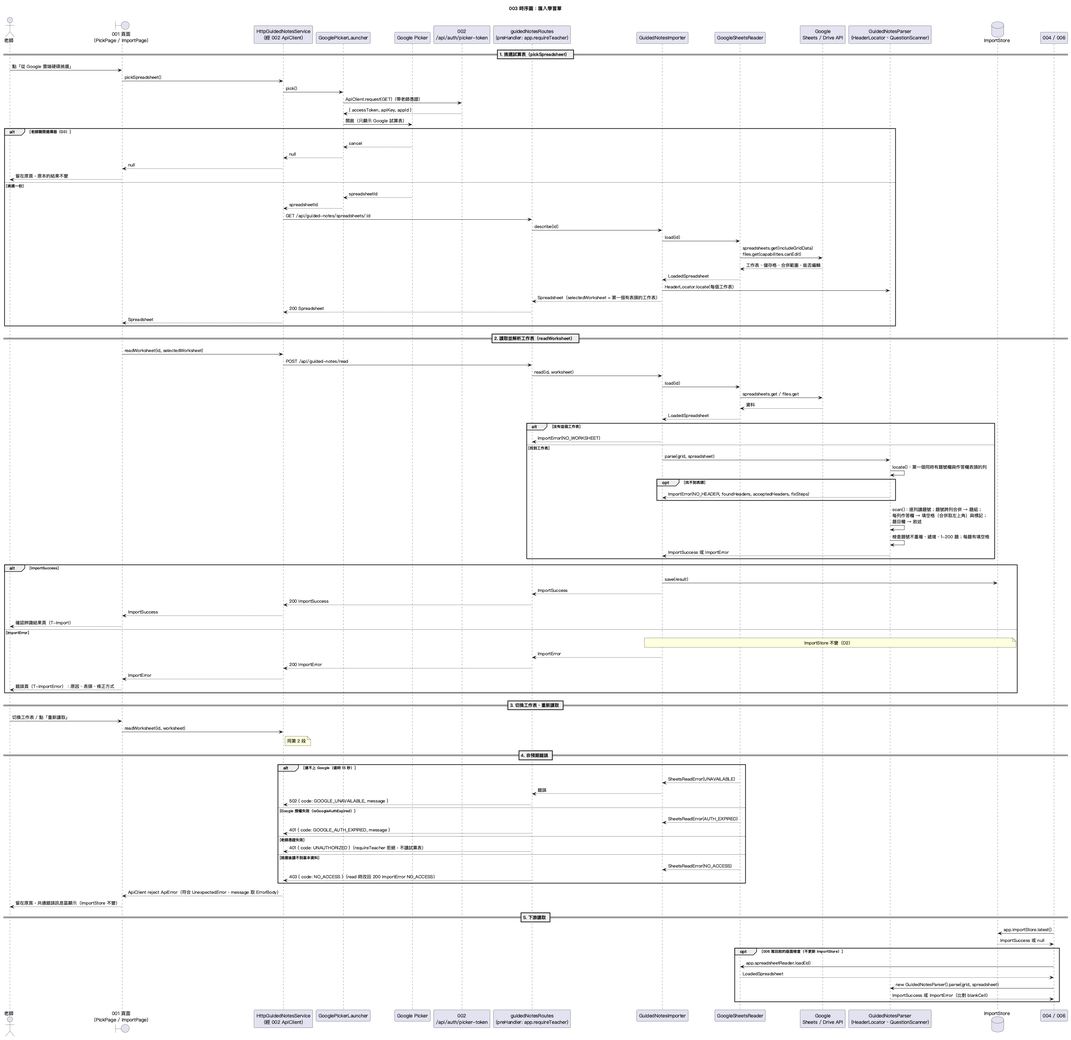
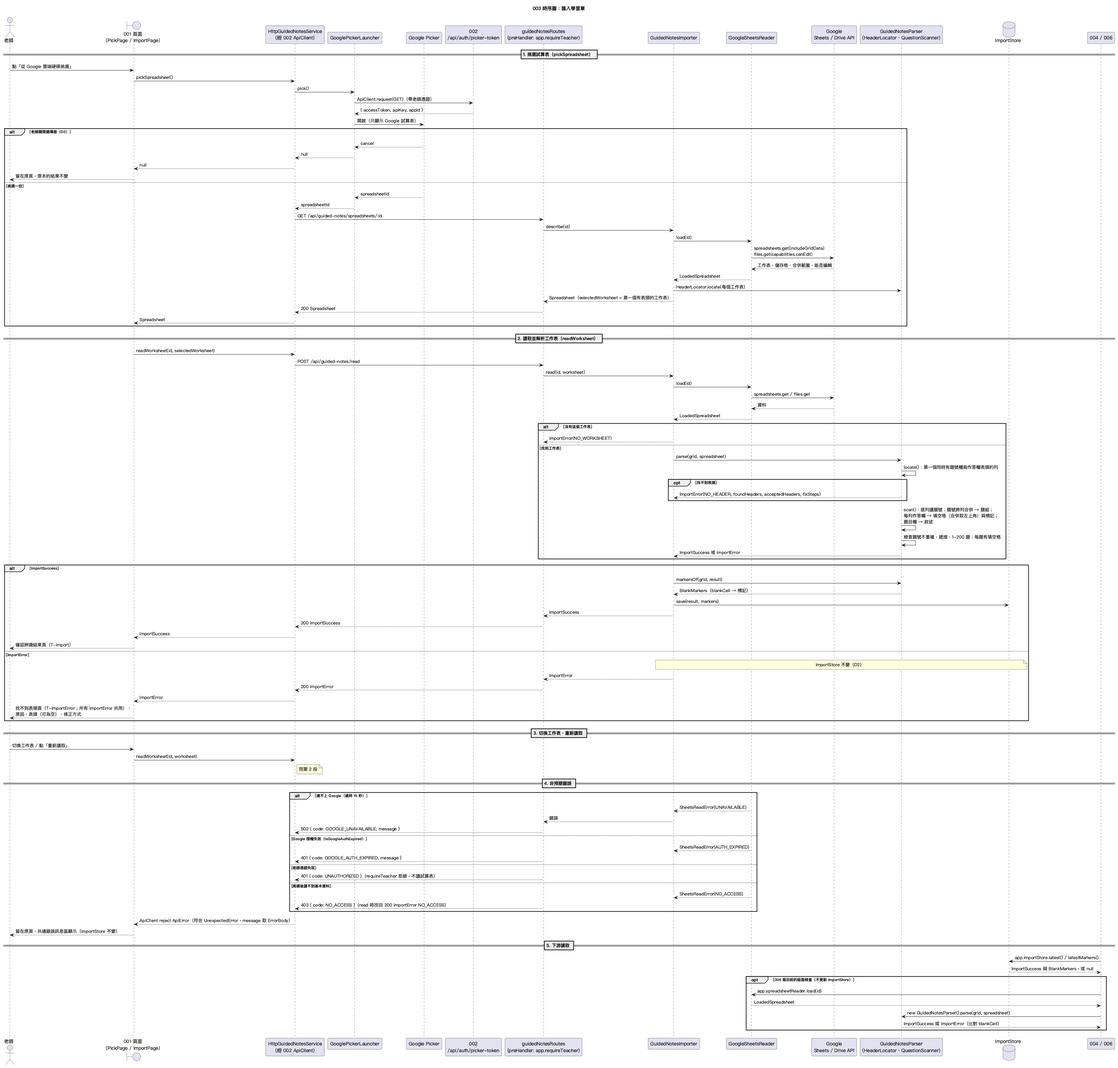
spec(003): 依 spec 修改同步設計、任務與圖表
spec 配合 001 最終版修改後，plan、research、data-model、contracts、quickstart、tasks 與三張圖也要跟著改，否則實作會照舊的介面做。重跑 analyze 沒有 CRITICAL、HIGH、MEDIUM。

diff --git a/specs/003-guided-notes-import/tasks.md b/specs/003-guided-notes-import/tasks.md
@@ -22,7 +22,7 @@ description: "Task list for 003 匯入學習單"
 
 ## Phase 1: Setup
 
-- [ ] T001 確認 `shared/src/entities.ts` 的 `SubQuestion` 已有 `marker: string`（spec「需請 001 修改」#1）；沒有時停下來，請 001 先修改 spec、類別圖與實體，不要自己改 001 的檔案
+- [ ] T001 確認 `shared/src/entities.ts` 的 `Spreadsheet`、`Question`、`SubQuestion`（只有 `index`、`blankCell`）、`ImportSuccess`、`ImportError` 與 `shared/src/guards.ts` 的 `isImportError` 和 001 data-model 一致；003 不修改這兩個檔案（小題標記只存在伺服器，REQ-IMP-09）
 - [ ] T002 [P] 在 `server/package.json` 加入 `@googleapis/sheets`、`@googleapis/drive`，執行 `npm install`
 
 ---
@@ -32,12 +32,12 @@ description: "Task list for 003 匯入學習單"
 **Purpose**: 所有 Story 共用的資料結構；完成前不開始任何 Story
 
 - [ ] T003 [P] 建立 `gn/SpreadsheetReader.ts`：`SpreadsheetReader` 介面（`load(spreadsheetId): Promise<LoadedSpreadsheet>`）、`LoadedSpreadsheet`（`id`、`title`、`editable`、`sheets: SheetGrid[]`）、`SheetsReadError`（`kind: 'NO_ACCESS' | 'UNAVAILABLE' | 'AUTH_EXPIRED'`）
-- [ ] T004 [P] 建立 `gn/SheetGrid.ts`：`SheetGrid`（`sheetId`、`name`、`rowCount`、`colCount`、`text(row, col)` 用 `formattedValue`、`number(row, col)` 用 `effectiveValue.numberValue`、`mergeAt(row, col): CellRange | null`）與 `CellRange`；以 `SheetGrid.fromApi(sheet)` 由 `spreadsheets.get` 的一個 `sheets[]` 建立，GridRange（0 起算、結尾不含）轉成「從 1 起算、含結尾」；另提供 `toA1(row, col)`
-- [ ] T005 [P] 建立 `gn/ImportStore.ts`：`save(result)` 以 `structuredClone` 存入、`latest(): Readonly<ImportSuccess> | null`（contracts/import-store.md）
+- [ ] T004 [P] 建立 `gn/SheetGrid.ts`：`SheetGrid`（`sheetId`、`name`、`rowCount`、`colCount`、`text(row, col)` 用 `formattedValue`、`number(row, col)` 用 `effectiveValue.numberValue`、`mergeAt(row, col): CellRange | null`）與 `CellRange`；以 `SheetGrid.fromApi(sheet)` 由 `spreadsheets.get` 的一個 `sheets[]` 建立，GridRange（0 起算、結尾不含）轉成「從 1 起算、含結尾」；另提供 `toA1(row, col)` 與 `textA1(a1)`
+- [ ] T005 [P] 建立 `gn/ImportStore.ts`：`BlankMarkers` 型別、`save(result, markers)` 以 `structuredClone` 一起存入、`latest(): Readonly<ImportSuccess> | null`、`latestMarkers(): BlankMarkers | null`（contracts/import-store.md）
 - [ ] T006 [P] 建立 `gn/importErrors.ts`：`noHeader`、`noQuestions`、`invalidNumbering`、`tooManyQuestions`、`noBlank`、`noAccess`、`noWorksheet`，`reason` 與 `fixSteps` 依 contracts/guided-notes-http.md 的範例；只有 `noHeader` 的 `foundHeaders`、`acceptedHeaders` 有值，`acceptedHeaders` 為 `["題號欄：題號、編號、題次", "作答欄：作答、答案、回答", "題目欄（可以沒有）：題目、問題、題幹"]`
 - [ ] T007 [P] 建立 `gnt/helpers/gridBuilder.ts`：以二維字串陣列（數字以 number 表示）與 A1 合併範圍（例如 `"B5:B6"`）產生 `spreadsheets.get` 回應格式的 sheet 物件與 `SheetGrid`
 - [ ] T008 [P] 撰寫 `gnt/SheetGrid.test.ts`：合併範圍轉換、`number()` 讀數字與文字題號的差別、`toA1`
-- [ ] T009 [P] 撰寫 `gnt/ImportStore.test.ts`：初始 `latest()` 為 `null`；`save` 後取得相同內容；再次 `save` 取代；修改存入前的物件不影響 `latest()`
+- [ ] T009 [P] 撰寫 `gnt/ImportStore.test.ts`：初始 `latest()`、`latestMarkers()` 都為 `null`；`save` 後兩者取得相同內容；再次 `save` 兩者一起取代；修改存入前的物件不影響 `latest()`、`latestMarkers()`
 
 **Checkpoint**: 基礎型別與測試輔助完成
 
@@ -56,7 +56,7 @@ description: "Task list for 003 匯入學習單"
 - [ ] T012 [P] [US1] 撰寫 `gnt/QuestionScanner.test.ts`（單題）：題號接受數字 1、1.0、文字「1」與全形「１」；0、負數、1.5、文字列略過；作答欄 G5:H5 合併時填空格為 `G5`；單題只有 1 個小題、`index` 為 1；有題目欄時 `text` 為該列文字、沒有題目欄時沒有 `text`（AC-04）
 - [ ] T013 [US1] 撰寫 `gnt/GuidedNotesParser.test.ts`（成功）：單題範本 → 6 題、填空格 G5、G7…G15、`headerRow` 4、`headerColumns` `["B","C","G"]`（AC-01、REQ-IMP-16）；沒有題目欄時 `headerColumns` 只有兩欄；3 份變形全部正確（AC-03、SC-002）；題號 1、2、4 → 3 題（AC-09）；`questions` 依題號遞增，依 T010
 - [ ] T014 [P] [US1] 撰寫 `gnt/GoogleSheetsReader.test.ts`（`vi.mock` 取代 `@googleapis/sheets`、`@googleapis/drive`）：`spreadsheets.get` 帶 `includeGridData=true` 與 research R1 的 `fields`；`files.get` 只取 `capabilities/canEdit`；工作表依 `index` 排序；`authorizedClient()` 的結果傳給兩個 API
-- [ ] T015 [P] [US1] 撰寫 `gnt/GuidedNotesImporter.test.ts`（成功）：`describe` 的 `selectedWorksheet` 是第一個有表頭的工作表、都沒有時為第一個（AC-05）；`describe` 不改變 `ImportStore`；`read` 成功時 `ImportStore.latest()` 等於回傳值（AC-02）；讀另一個工作表時取代（AC-06）；`canEdit=false` 時 `editable` 為 false、仍成功（AC-07）
+- [ ] T015 [P] [US1] 撰寫 `gnt/GuidedNotesImporter.test.ts`（成功）：`describe` 的 `selectedWorksheet` 是第一個有表頭的工作表、都沒有時為第一個（AC-05）；`describe` 不改變 `ImportStore`；`read` 成功時 `ImportStore.latest()` 等於回傳值、`latestMarkers()` 為同一次的標記（AC-02、AC-12）；讀另一個工作表時取代（AC-06）；`canEdit=false` 時 `editable` 為 false、仍成功（AC-07）
 - [ ] T016 [P] [US1] 撰寫 `gnt/guidedNotesRoutes.test.ts`（成功）：以 002 的 `buildApp` + Fastify `inject()`、`deps.spreadsheetReader` 注入假 `SpreadsheetReader`、002 的測試用老師憑證，`GET /api/guided-notes/spreadsheets/:id` 回 200 `Spreadsheet`、`POST /api/guided-notes/read` 回 200 `ImportSuccess`；`spreadsheetId` 不符 `^[A-Za-z0-9_-]{10,200}$`、`worksheet` 空字串或超過 100 字、多餘欄位 → `400 BAD_REQUEST`（`ErrorBody` `{ code, message }`）
 - [ ] T017 [P] [US1] 撰寫 `frontend/tests/unit/HttpGuidedNotesService.test.ts`（成功）：假的 `GooglePickerLauncher` 回傳 id 時呼叫 `GET /api/guided-notes/spreadsheets/:id` 並回傳 `Spreadsheet`；`readWorksheet` 200 時把內容原樣回傳（`ImportSuccess`）；所有請求都經過假的 `ApiClient.request(method, path, body?)`，路徑與 body 符合 contracts/guided-notes-http.md
 - [ ] T018 [US1] 在 `gnt/GoogleSheetsReader.test.ts` 確認 `load()` 只呼叫 `spreadsheets.get` 與 `files.get`，沒有呼叫任何寫入方法（`batchUpdate`、`values.update` 等）；在 `gnt/GuidedNotesImporter.test.ts` 確認 `describe`、`read` 對假 `SpreadsheetReader` 只呼叫 `load()`（AC-10、REQ-IMP-17）
@@ -67,7 +67,7 @@ description: "Task list for 003 匯入學習單"
 - [ ] T020 [US1] 實作 `gn/QuestionScanner.ts` 單題路徑：逐列讀題號、跳過合併範圍的非第一列、填空格取合併左上角並轉 A1、題目欄文字（research R4），回傳 `ScannedQuestion[]`
 - [ ] T021 [US1] 實作 `gn/GuidedNotesParser.ts`：`parse(grid, spreadsheet)` 組出 `ImportSuccess`（`headerRow`、依「題號欄、題目欄（有才列）、作答欄」順序的 `headerColumns`、`questions`），依 T019、T020
 - [ ] T022 [P] [US1] 實作 `gn/GoogleSheetsReader.ts`：以 `GoogleClientProvider.authorizedClient()` 同時送出 `spreadsheets.get` 與 `files.get`，轉成 `LoadedSpreadsheet`（research R1）
-- [ ] T023 [US1] 實作 `gn/GuidedNotesImporter.ts`：`describe`（預設工作表，research R6）與 `read`（找工作表 → `parse` → 成功時 `ImportStore.save`），依 T005、T021
+- [ ] T023 [US1] 實作 `gn/GuidedNotesImporter.ts`：`describe`（預設工作表，research R6）與 `read`（找工作表 → `parse` → 成功時 `ImportStore.save(result, parser.markersOf(grid, result))`），依 T005、T021
 - [ ] T024 [US1] 實作 `gn/guidedNotesRoutes.ts`：兩支 API、JSON schema 驗證、掛 `requireTeacher`，回應依 contracts/guided-notes-http.md，依 T023
 - [ ] T025 [US1] 在 002 的 `server/src/app.ts` `buildApp(config, deps)` 建立一個 `ImportStore` 與 `deps.spreadsheetReader ?? new GoogleSheetsReader(app.googleClients)`，以 `app.decorate` 提供為 `app.importStore`、`app.spreadsheetReader`，再 `app.register(guidedNotesRoutes)`；`deps` 型別加上可省略的 `spreadsheetReader`（research R8、contracts/import-store.md）
 - [ ] T026 [P] [US1] 實作 `frontend/src/services/google/GooglePickerLauncher.ts`：經 `ApiClient.request('GET', '/api/auth/picker-token')` 取得 `{ accessToken, apiKey, appId }`，動態載入 `https://apis.google.com/js/api.js`、`gapi.load('picker')`，以 `DocsView(ViewId.SPREADSHEETS)` 加 `setMimeTypes('application/vnd.google-apps.spreadsheet')`、`setOAuthToken`、`setDeveloperKey`、`setAppId` 開啟；`picked` 回傳 `docs[0].id`，`cancel` 回傳 `null`；腳本載入失敗或 15 秒內沒載入完成時丟出 `UnexpectedError`「無法載入 Google 檔案選擇器，請確認網路連線」（research R2、AC-25）
@@ -87,13 +87,13 @@ description: "Task list for 003 匯入學習單"
 ### Tests for User Story 2 ⚠
 
 - [ ] T029 [P] [US2] 建立 `gnt/fixtures/group.json`（依 `docs/templates/guided-notes-group.xlsx`：B5:B6、B8:B9 合併，G5、G6、G8、G9 為「（1）」「（2）」，C5:F5 等合併）
-- [ ] T030 [P] [US2] 在 `gnt/QuestionScanner.test.ts` 加入題組案例：題號跨 2 列 → `GROUP` 2 小題（AC-11）；跨 3 列 → 3 小題（AC-13）；單題填空格有「（1）」仍為 `SINGLE`（AC-14）；標記「（1）」「(1)」「（1)」原樣記為 `marker`，「（2）堆疊」的 `marker` 為「（2）」，沒有標記時為 `""`（AC-12）；題組 `text` 每行為「標記＋題目欄文字」，標記空白時用「（n）」，沒有文字的列不列（AC-15）；題組中作答欄被合併進上一列的那一列不算小題
-- [ ] T031 [US2] 在 `gnt/GuidedNotesParser.test.ts` 加入題組範本：4 題、2 題組、6 個填空格 G5、G6、G8、G9、G11、G13（AC-11、SC-001），依 T029
+- [ ] T030 [P] [US2] 在 `gnt/QuestionScanner.test.ts` 加入題組案例：題號跨 2 列 → `GROUP` 2 小題（AC-11）；跨 3 列 → 3 小題（AC-13）；單題填空格有「（1）」仍為 `SINGLE`（AC-14）；`QuestionScanner.extractMarker` 對「（1）」「(1)」「（1)」原樣回傳，「（2）堆疊」回傳「（2）」，沒有標記時回傳 `""`（AC-12）；題組 `text` 每行為「標記＋題目欄文字」，標記空白時用「（n）」，沒有文字的列不列（AC-15）；題組中作答欄被合併進上一列的那一列不算小題
+- [ ] T031 [US2] 在 `gnt/GuidedNotesParser.test.ts` 加入題組範本：4 題、2 題組、6 個填空格 G5、G6、G8、G9、G11、G13（AC-11、SC-001）；`markersOf` 回傳 G5、G8→「（1）」，G6、G9→「（2）」，G11、G13→`""`，每個 `blankCell` 恰好一筆；`parse` 回傳的 `SubQuestion` 只有 `index`、`blankCell`（AC-12），依 T029
 
 ### Implementation for User Story 2
 
 - [ ] T032 [US2] 在 `gn/QuestionScanner.ts` 實作題組判斷：題號儲存格合併範圍跨多列 → `GROUP`，範圍內每列一個候選小題，`index` 依列序（REQ-IMP-08）
-- [ ] T033 [US2] 在 `gn/QuestionScanner.ts` 實作標記擷取（`^\s*([（(]\s*\d+\s*[)）])`）與題組 `text` 組合（REQ-IMP-07、REQ-IMP-09）
+- [ ] T033 [US2] 在 `gn/QuestionScanner.ts` 實作 `extractMarker`（`^\s*([（(]\s*\d+\s*[)）])`）與題組 `text` 組合，在 `gn/GuidedNotesParser.ts` 實作 `markersOf(grid, result)`（REQ-IMP-07、REQ-IMP-09）
 
 **Checkpoint**: 單題與題組範本都能正確匯入
 
@@ -148,7 +148,7 @@ description: "Task list for 003 匯入學習單"
 | REQ-IMP-06 | AC-01、AC-09、AC-19–21 | T012、T013、T020、T021、T034、T040 |
 | REQ-IMP-07 | AC-04、AC-15 | T012、T020、T030、T033 |
 | REQ-IMP-08 | AC-11、AC-13、AC-14 | T030、T031、T032 |
-| REQ-IMP-09 | AC-12 | T001、T030、T033 |
+| REQ-IMP-09 | AC-12 | T001、T005、T009、T023、T030、T031、T033 |
 | REQ-IMP-10 | AC-01、AC-11、AC-22 | T004、T012、T020、T034、T040 |
 | REQ-IMP-11 | AC-07 | T014、T015、T022 |
 | REQ-IMP-12 | AC-19–24 | T006、T034、T035、T037、T040、T042 |

diff --git a/specs/003-guided-notes-import/data-model.md b/specs/003-guided-notes-import/data-model.md
@@ -2,7 +2,7 @@
 
 **Feature**: `003-guided-notes-import` | **Date**: 2026-11-21 | **Blueprint**: [`diagrams/003-class.puml`](../../diagrams/003-class.puml)
 
-本文件與 003 類別圖一一對應：類別名稱、欄位、方法與關聯相同。實體沿用 001 的 [data-model.md](../001-ui-prototype/data-model.md)（`shared/src/entities.ts`），本文件只定義 003 填入的值與規則；唯一新增的欄位 `SubQuestion.marker` 需由 001 先加入（spec「需請 001 修改」#1）。
+本文件與 003 類別圖一一對應：類別名稱、欄位、方法與關聯相同。實體沿用 001 的 [data-model.md](../001-ui-prototype/data-model.md)（`shared/src/entities.ts`），本文件只定義 003 填入的值與規則，不新增或修改 001 的實體欄位。小題標記只存在伺服器的 `ImportStore`（§3、[contracts/import-store.md](contracts/import-store.md)）。
 
 ## 1. 實體（001，003 定義欄位的值）
 
@@ -31,7 +31,6 @@
 | --- | --- | --- |
 | `index` | number | 從 1 起算，依列序 |
 | `blankCell` | string | A1 表示法（例如 `G5`）；合併範圍取左上角（REQ-IMP-10） |
-| `marker` | string | **需請 001 新增**。填空格開頭的「（n）」「(n)」原樣保留；沒有時為 `""`（REQ-IMP-09） |
 
 ### ImportSuccess
 
@@ -84,17 +83,18 @@
 | `GuidedNotesImporter` | `describe(spreadsheetId): Promise<Spreadsheet>`、`read(spreadsheetId, worksheet): Promise<ImportSuccess \| ImportError>` | `read` 成功時呼叫 `ImportStore.save()`；失敗不呼叫 |
 | `SpreadsheetReader`（介面） | `load(spreadsheetId): Promise<LoadedSpreadsheet>` | 讓測試用假物件（原則 III、VIII） |
 | `LoadedSpreadsheet` | `id`、`title`、`editable`、`sheets: SheetGrid[]`（1..*） | 一份試算表的完整內容 |
-| `SheetGrid` | `sheetId`、`name`、`rowCount`、`colCount`、`fromApi(sheet)`（static）、`text(row, col)`、`number(row, col)`、`mergeAt(row, col)`、`toA1(row, col)` | `fromApi` 由 `spreadsheets.get` 的一個 `sheets[]`（`ApiSheet`，即 `@googleapis/sheets` 的 `sheets_v4.Schema$Sheet`）建立；`toA1(5, 7)` 為 `G5`；列欄從 1 起算；`text` 用 `formattedValue`；`number` 用 `effectiveValue.numberValue` |
+| `SheetGrid` | `sheetId`、`name`、`rowCount`、`colCount`、`fromApi(sheet)`（static）、`text(row, col)`、`textA1(a1)`、`number(row, col)`、`mergeAt(row, col)`、`toA1(row, col)` | `textA1('G5')` 等於 `text(5, 7)`；`fromApi` 由 `spreadsheets.get` 的一個 `sheets[]`（`ApiSheet`，即 `@googleapis/sheets` 的 `sheets_v4.Schema$Sheet`）建立；`toA1(5, 7)` 為 `G5`；列欄從 1 起算；`text` 用 `formattedValue`；`number` 用 `effectiveValue.numberValue` |
 | `CellRange` | `startRow`、`endRow`、`startCol`、`endCol` | 合併範圍，從 1 起算、含結尾（API 的 GridRange 是 0 起算、結尾不含） |
 | `SheetsReadError` | `kind: 'NO_ACCESS' \| 'UNAVAILABLE' \| 'AUTH_EXPIRED'` | `GoogleSheetsReader` 丟出（research R1）；`AUTH_EXPIRED` 依 002 的 `isGoogleAuthExpired` |
-| `GoogleSheetsReader` | `-clients: GoogleClientProvider`、`load(spreadsheetId)` | 實作 `SpreadsheetReader`；`buildApp` 以 `app.googleClients` 建立，提供為 `app.spreadsheetReader` |
-| `GuidedNotesParser` | `parse(grid, spreadsheet): ImportSuccess \| ImportError` | 不碰網路 |
+| `GoogleSheetsReader` | `-clients: GoogleClientProvider`、`load(spreadsheetId)` | 實作 `SpreadsheetReader`；`buildApp` 以 `app.googleClients` 建立，提供為 `app.spreadsheetReader`。每次 `load` 都重新呼叫 `authorizedClient()`，不保存 client：任何人登入都會換成新帳號的授權（002 REQ-AUTH-03），新帳號沒有權限時回 `NO_ACCESS` |
+| `GuidedNotesParser` | `parse(grid, spreadsheet): ImportSuccess \| ImportError`、`markersOf(grid, result): BlankMarkers` | 不碰網路，不讀寫 `ImportStore`；`markersOf` 對 `result` 的每個 `blankCell` 以 `QuestionScanner.extractMarker(grid.textA1(blankCell))` 取得標記 |
 | `HeaderLocator` | `NUMBER_HEADERS`、`ANSWER_HEADERS`、`QUESTION_HEADERS`、`locate(grid): HeaderMatch \| null`、`currentHeaderTexts(grid): string[]` | research R3 |
 | `HeaderMatch` | `row`、`numberCol`、`answerCol`、`questionCol?` | 欄號從 1 起算 |
-| `QuestionScanner` | `scan(grid, header): ScannedQuestion[] \| ImportError` | research R4；只會回傳 `NO_BLANK` |
+| `QuestionScanner` | `scan(grid, header): ScannedQuestion[] \| ImportError`、`extractMarker(text): string`（static） | research R4；`scan` 只會回傳 `NO_BLANK`；`extractMarker` 回傳開頭的「（n）」「(n)」或 `""` |
 | `ScannedQuestion` | `row`、`question: Question` | `row` 是題號所在列，供錯誤訊息使用 |
 | `importErrors`（模組） | `noHeader`、`noQuestions`、`invalidNumbering`、`tooManyQuestions`、`noBlank`、`noAccess`、`noWorksheet` | 產生 `ImportError`（research R5） |
-| `ImportStore` | `-latestResult: ImportSuccess \| null`、`save(result)`、`latest(): ImportSuccess \| null` | 伺服器記憶體；`buildApp` 建立一個，提供為 `app.importStore`；004、006 只呼叫 `latest()` |
+| `ImportStore` | `-latestResult: ImportSuccess \| null`、`-latestBlankMarkers: BlankMarkers \| null`、`save(result, markers)`、`latest(): ImportSuccess \| null`、`latestMarkers(): BlankMarkers \| null` | 伺服器記憶體；`buildApp` 建立一個，提供為 `app.importStore`；004 只呼叫 `latest()`，006 呼叫 `latest()`、`latestMarkers()` |
+| `BlankMarkers` | `Readonly<Record<string, string>>` | 鍵為 `blankCell`（A1），值為填空格開頭原有的小題標記或 `""`；`latest()` 的每個 `blankCell` 恰好一筆（REQ-IMP-09） |
 
 002 提供、003 只引用（`specs/002-teacher-login/contracts/server-extension.md`）：`buildApp(config, deps)`、`app.requireTeacher`、`app.googleClients`（`GoogleClientProvider.authorizedClient()`）、`isGoogleAuthExpired(error)`、`TeacherNotSignedInError`、`ErrorBody`、`loggerOptions`、`GET /api/auth/picker-token`（`{ accessToken, apiKey, appId }`）、前端的 `ApiClient.request(method, path, body?)` 與 `ApiError`。
 

diff --git a/specs/003-guided-notes-import/analyze-report.md b/specs/003-guided-notes-import/analyze-report.md
@@ -82,4 +82,52 @@
 ## Next Actions
 
 - 沒有 CRITICAL、HIGH、MEDIUM，可以進入人工審查（原則 X）後再 `/speckit-implement`。
-- 實作前先確認 001 已完成「需請 001 修改」#1、#2（T001）。
+- 第 4 次分析後已不需要 001 修改（見下節）。
+
+---
+
+## 第 4 次分析（配合 001 最終版，2026-11-22）
+
+依 001 最終版（PR #10 合併後的 `specs/001-ui-prototype/`、`diagrams/001-*`）、`docs/feature-split.md` 最新版，以及使用者 2026-11-22 的決定（不再請 001 修改）重新比對 spec、plan、tasks、research、data-model、contracts、quickstart 與三張圖。
+
+### Findings
+
+| ID | Category | Severity | Location(s) | Summary | Recommendation |
+|----|----------|----------|-------------|---------|----------------|
+| N1 | Inconsistency | ~~HIGH~~ 已修正 | spec REQ-IMP-09、Key Entities；data-model；contracts；類別圖；tasks T001、T030、T031、T033 | 小題標記依賴 001 新增 `SubQuestion.marker`，但 001 最終版沒有這個欄位，使用者也決定不再請 001 修改 | 標記改存在伺服器：`ImportStore.save(result, markers)`、`latestMarkers(): BlankMarkers \| null`（`blankCell` → 標記）；新增 `GuidedNotesParser.markersOf`、`QuestionScanner.extractMarker`、`SheetGrid.textA1`；HTTP 回應與前端實體不含標記 |
+| N2 | Inconsistency | ~~MEDIUM~~ 已修正 | spec「需請 001 修改」#2、REQ-IMP-12；quickstart #8 | 其他匯入錯誤依賴 001 把 T-ImportError 改成通用頁 | 照 001 現況顯示在找不到表頭頁：`reason` 寫實際原因、表頭兩區為空、`fixSteps` 寫修正方式；標題不準確列為 Assumptions 的已知限制 |
+| N3 | Inconsistency | ~~MEDIUM~~ 已修正 | spec Clarifications、Assumptions | 原本假設活動中老師到不了 T-Pick（D21），但 001 修改 D21 之前，老師重新登入會進入 T-Pick，可能重新匯入 | 寫明 003 不檢查活動階段；活動用建立時的題目（004），寫回目標不一致由 006 的 `IMPORT_CHANGED` 拒絕 |
+| N4 | Inconsistency | ~~LOW~~ 已修正 | spec「需請 001 修改」#3 | 請 001 確認 `headerColumns`、`blankCell` 格式；001 最終版只定義型別，沒有規定格式 | 格式由 003 定義（REQ-IMP-10、REQ-IMP-16），從「需請 001 修改」移除；該節改為「無」 |
+| N5 | Underspecification | ~~LOW~~ 已修正 | tasks T030、T031 | `markersOf` 的測試寫在 `QuestionScanner.test.ts`，但它是 `GuidedNotesParser` 的方法 | 移到 T031（`GuidedNotesParser.test.ts`） |
+| L1 | Inconsistency | LOW | contracts/import-store.md；類別圖 | 同第 3 次：`Readonly<…>` 與類別圖的寫法不同 | 意義相同 |
+| L2 | Coverage | LOW | spec REQ-IMP-02 | 同第 3 次 | 由 AC-26 間接涵蓋 |
+| L4 | Coverage | LOW | spec SC-004 | 同第 3 次 | 端對端只能人工計時 |
+| L5 | Known limitation | LOW | spec Assumptions | T-ImportError 標題「找不到表頭」與其他錯誤原因不符 | 使用者 2026-11-22 決定接受；老師以 `reason`、`fixSteps` 為準 |
+
+第 3 次的 L3（依賴 001 修改）已不存在：003 不再需要 001 修改任何頁面或實體；T001 只確認 001 的實體與 003 的假設一致。
+
+### 與 001 最終版的其他比對（沒有問題）
+
+- `GuidedNotesService` 的兩個方法簽章、`Spreadsheet`、`Question`、`SubQuestion`、`ImportSuccess`、`ImportError` 的欄位與 001 最終版相同；003 不修改 `shared/src/entities.ts`。
+- 001 FR-021 改為「學習單預覽只依辨識結果呈現表頭列、題號、題目敘述與填空格」：003 的 `ImportSuccess` 已提供這些內容（題組的敘述是多行文字）。
+- D2、D3 的文字與歸屬沒有變。
+- 001 的 `SignInFailure`、`SubmissionService`、`QuestionResult` 等變更與 003 無關。
+
+### Metrics
+
+- Total Requirements: 17（另有 6 個 SC）
+- Total Acceptance Criteria: 26
+- Total Tasks: 49
+- Coverage: 100%
+- Ambiguity Count: 0
+- Duplication Count: 0
+- Critical Issues Count: 0（HIGH 0、MEDIUM 0、LOW 4）
+
+### 跨子功能交界（更新）
+
+| 交界 | 結果 |
+| --- | --- |
+| 001 頁面、介面、實體 | ✅ 不需要 001 修改；「需請 001 修改」為「無」 |
+| 003 → 004 `app.importStore.latest()` | ✅ 型別不變（`Readonly<ImportSuccess> \| null`） |
+| 003 → 006 `app.importStore.latestMarkers()` | 新增：`BlankMarkers \| null`（`Readonly<Record<blankCell, marker>>`），取代原本的 `SubQuestion.marker`；006 需改用它 |
+| 003 → 006 `app.spreadsheetReader.load()`、`GuidedNotesParser.parse()` | ✅ 名稱與簽章不變；`parse` 回傳的 `SubQuestion` 不含標記 |

diff --git a/specs/003-guided-notes-import/research.md b/specs/003-guided-notes-import/research.md
@@ -41,8 +41,8 @@
   - 題號儲存格的合併範圍跨多列 → `GROUP`，範圍內每一列是一個候選小題；否則 `SINGLE`，只有該列。
   - 每個候選列：找作答欄 `(row, answerCol)` 所在的合併範圍；不在合併範圍內時填空格就是該格。合併範圍的第一列早於這一列 → 不是獨立填空格，略過；否則填空格是合併範圍左上角，轉成 A1（例如 `G5`）。
   - 一題沒有任何獨立填空格 → `NO_BLANK`。
-  - 標記：填空格文字符合 `^\s*([（(]\s*\d+\s*[)）])`，原樣保留括號內外的寫法（去掉前面的空白）作為 `marker`；不符合時 `marker = ""`。標記以外的文字忽略。
-  - 題目敘述：題目欄同一列（合併時取左上角）的文字，去除前後空白。單題直接用；題組依小題順序每行為「`marker`（空白時為「（n）」）＋文字」，用 `\n` 連接，只保留有文字的列；全部沒有文字時不設 `text`。
+  - 標記：填空格文字符合 `^\s*([（(]\s*\d+\s*[)）])`，原樣保留括號內外的寫法（去掉前面的空白）作為標記；不符合時為 `""`。標記以外的文字忽略。擷取寫成 `QuestionScanner.extractMarker(text)`。標記不放進 001 的 `SubQuestion`：`GuidedNotesParser.markersOf(grid, result)` 對每個 `blankCell` 讀出標記，`GuidedNotesImporter.read()` 成功時與 `ImportSuccess` 一起存入 `ImportStore`（`save(result, markers)`），006 以 `latestMarkers()` 取用（001 最終版沒有 `SubQuestion.marker`，2026-11-22 決定不請 001 修改）。
+  - 題目敘述：題目欄同一列（合併時取左上角）的文字，去除前後空白。單題直接用；題組依小題順序每行為「標記（空白時為「（n）」）＋文字」，用 `\n` 連接，只保留有文字的列；全部沒有文字時不設 `text`。
 - **Rationale**: 題組只依題號欄的合併範圍判定（AC-14）。填空格位置是解析結果（原則 IV），006 直接以 A1 寫回。
 - **Alternatives considered**: 依標記判定題組（範本單題也可能加標記，會誤判）。
 
@@ -69,7 +69,7 @@
 
 ## R8. ImportStore 與讀取器的位置與共用
 
-- **Decision**: `ImportStore` 是一般類別。002 的 `buildApp` 建立一個 `ImportStore` 與一個 `GoogleSheetsReader(app.googleClients)`（測試時由 `deps.spreadsheetReader` 注入替身），以 `app.decorate('importStore', …)`、`app.decorate('spreadsheetReader', …)` 提供；`guidedNotesRoutes` 用它們建立 `GuidedNotesImporter`，004、006 從 `app.importStore` 讀取，006 另用 `app.spreadsheetReader` 與 `GuidedNotesParser` 做版面檢查（[contracts/import-store.md](contracts/import-store.md)）。只有 `GuidedNotesImporter.read()` 呼叫 `save()`。
+- **Decision**: `ImportStore` 是一般類別。002 的 `buildApp` 建立一個 `ImportStore` 與一個 `GoogleSheetsReader(app.googleClients)`（測試時由 `deps.spreadsheetReader` 注入替身），以 `app.decorate('importStore', …)`、`app.decorate('spreadsheetReader', …)` 提供；`guidedNotesRoutes` 用它們建立 `GuidedNotesImporter`，004 從 `app.importStore.latest()`、006 從 `latest()` 與 `latestMarkers()` 讀取，006 另用 `app.spreadsheetReader` 與 `GuidedNotesParser` 做版面檢查（[contracts/import-store.md](contracts/import-store.md)）。只有 `GuidedNotesImporter.read()` 呼叫 `save(result, markers)`；結果與標記一起取代，不會只換其中一個。
 - **Rationale**: 與 002 提供 `app.googleClients` 的方式一致；不用模組層級的全域變數，測試可以各自建立；`ImportStore` 只有一個實作，不另設介面（原則 XI）。
 
 ## R9. 測試

diff --git a/specs/003-guided-notes-import/contracts/import-store.md b/specs/003-guided-notes-import/contracts/import-store.md
@@ -19,9 +19,14 @@
 
 ```ts
 // server/src/guided-notes/ImportStore.ts
+/** blankCell (A1, e.g. "G5") -> marker found at the start of that cell ("（1）", "(2)" or ""). */
+export type BlankMarkers = Readonly<Record<string, string>>;
+
 export class ImportStore {
-  save(result: ImportSuccess): void;          // only GuidedNotesImporter.read() calls this
+  // Only GuidedNotesImporter.read() calls this; result and markers are replaced together.
+  save(result: ImportSuccess, markers: BlankMarkers): void;
   latest(): Readonly<ImportSuccess> | null;   // null until the first successful read
+  latestMarkers(): BlankMarkers | null;       // markers of the same read as latest(); null when latest() is null
 }
 ```
 
@@ -31,7 +36,7 @@ export class ImportStore {
 2. `questions` 有 1～200 題，`number` 嚴格遞增、可跳號。
 3. `type === 'SINGLE'` ⇒ `subQuestions.length === 1`；`type === 'GROUP'` ⇒ `subQuestions.length >= 1`；`index` 從 1 連號。
 4. 每個 `blankCell` 是 A1 表示法，在同一份結果中不重複，都位於 `spreadsheet.selectedWorksheet`。
-5. `marker` 是填空格原有的小題標記或 `""`（需 001 先加入這個欄位）。
+5. `latestMarkers()` 與 `latest()` 來自同一次讀取：`latest()` 中每個 `blankCell` 在 `latestMarkers()` 都恰好有一筆，值是填空格開頭原有的小題標記（原樣保留全形、半形寫法）或 `""`；沒有其他鍵。標記只存在伺服器，不在 001 的 `SubQuestion` 中，也不回傳給前端。
 6. 只存在記憶體；伺服器重新啟動後 `latest()` 為 `null`。
 7. 004、006 不得修改 `latest()` 回傳的物件，也不得呼叫 `save()`。
 
@@ -71,5 +76,5 @@ export class GuidedNotesParser {
 
 | 使用者 | 讀什麼 | 用途 |
 | --- | --- | --- |
-| 004 建立活動 | `app.importStore.latest()` 的 `spreadsheet`、`questions` | 活動的題目與題數；`latest()` 為 `null` 時建立活動應回驗證錯誤（由 004 定義） |
-| 006 寫回 | `app.importStore.latest()` 的 `spreadsheet.id`、`spreadsheet.selectedWorksheet`、`questions[].subQuestions[].blankCell`、`marker`；`app.spreadsheetReader.load()`、`GuidedNotesParser.parse()` | 版面檢查後寫入 `marker + 答案` 到原填空格 |
+| 004 建立活動 | `app.importStore.latest()` 的 `spreadsheet`、`questions`（不需要標記） | 活動的題目與題數；`latest()` 為 `null` 時建立活動應回驗證錯誤（由 004 定義） |
+| 006 寫回 | `app.importStore.latest()` 的 `spreadsheet.id`、`spreadsheet.selectedWorksheet`、`questions[].subQuestions[].blankCell`；`app.importStore.latestMarkers()[blankCell]`；`app.spreadsheetReader.load()`、`GuidedNotesParser.parse()` | 版面檢查後寫入「`latestMarkers()[blankCell]` ＋答案」到原填空格；寫回預覽顯示不含標記的答案（006 定義） |

diff --git a/specs/003-guided-notes-import/quickstart.md b/specs/003-guided-notes-import/quickstart.md
@@ -5,7 +5,6 @@
 ## 前置條件
 
 - 001、002 已完成：頁面、`GuidedNotesService` 介面、伺服器骨架、Google 登入與 `GET /api/auth/picker-token` 可用。
-- 001 已依 spec「需請 001 修改」加入 `SubQuestion.marker`。
 - Google Cloud 專案已啟用 Google Sheets API、Google Drive API、Google Picker API；環境變數 `GOOGLE_CLIENT_ID`、`GOOGLE_CLIENT_SECRET`、`GOOGLE_API_KEY`、`GOOGLE_APP_ID` 由使用者自行設定（設定方式見 002，本文件不讀也不寫 `.env`）。
 - 老師帳號的雲端硬碟中有下列 Google 試算表（由 `docs/templates/*.xlsx` 匯入 Google 試算表後修改）：
   1. 單題範本（6 題）
@@ -37,10 +36,10 @@
 | 2 | 挑選題組範本 | 4 題、2 題組；第 1 題 G5、G6，第 2 題 G8、G9；第 1 題敘述兩行各以（1）（2）開頭 | AC-11、AC-12、AC-15、SC-001 |
 | 3 | 依序挑選變形 A、B、C | 三份都正確辨識，位置跟著改變 | AC-03、AC-08、SC-002 |
 | 4 | 挑選試算表 9 | 預設讀「學習單」；工作表清單為「說明」「學習單」 | AC-05 |
-| 5 | 在 #4 的結果切換到「說明」 | 進入錯誤頁（`NO_HEADER`） | AC-06、AC-17 |
-| 6 | 挑選試算表 6 | 錯誤頁列出「No.」「內容」「學生填寫」、可用的表頭寫法與修正方式 | AC-17 |
-| 7 | 在 #6 的錯誤頁，到 Google 試算表把表頭改成「題號」「作答」後按「重新讀取」 | 進入確認辨識結果頁 | AC-17 |
-| 8 | 挑選試算表 7、8 | 7：3 題（1、2、4）；8：`INVALID_NUMBERING`，指出重複的題號與列 | AC-09、AC-19 |
+| 5 | 在 #4 的結果切換到「說明」 | 進入找不到表頭頁（T-ImportError，`NO_HEADER`） | AC-06、AC-17 |
+| 6 | 挑選試算表 6 | 找不到表頭頁列出「No.」「內容」「學生填寫」、可用的表頭寫法與修正方式 | AC-17 |
+| 7 | 在 #6 的找不到表頭頁，到 Google 試算表把表頭改成「題號」「作答」後按「重新讀取」 | 進入確認辨識結果頁 | AC-17 |
+| 8 | 挑選試算表 7、8 | 7：3 題（1、2、4）；8：進入找不到表頭頁（標題不準確是已知限制），錯誤原因指出重複的題號與列，表頭兩區為空、有修正方式（`INVALID_NUMBERING`） | AC-09、AC-19 |
 | 9 | 挑選試算表 10 | 照常辨識，顯示「僅檢視」 | AC-07 |
 | 10 | 開啟選擇器後直接關閉 | 留在原頁，畫面不變 | AC-16 |
 | 11 | 先成功匯入題組範本，再挑選試算表 6；之後到 T-Setup 建立活動 | 活動的題目是題組範本的 4 題（`ImportStore` 沒有被錯誤取代） | AC-18、SC-005 |

diff --git a/specs/003-guided-notes-import/contracts/guided-notes-http.md b/specs/003-guided-notes-import/contracts/guided-notes-http.md
@@ -57,14 +57,14 @@
   "headerColumns": ["B", "C", "G"],
   "questions": [
     { "number": 1, "type": "GROUP", "text": "（1）根據文章第一段，…其英文簡稱是什麼？\n（2）而他安裝的 Windows …統稱為什麼？",
-      "subQuestions": [ { "index": 1, "blankCell": "G5", "marker": "（1）" }, { "index": 2, "blankCell": "G6", "marker": "（2）" } ] },
+      "subQuestions": [ { "index": 1, "blankCell": "G5" }, { "index": 2, "blankCell": "G6" } ] },
     { "number": 3, "type": "SINGLE", "text": "無論小明寫的高階語言多麼複雜，…二進位訊號？",
-      "subQuestions": [ { "index": 1, "blankCell": "G11", "marker": "" } ] }
+      "subQuestions": [ { "index": 1, "blankCell": "G11" } ] }
   ]
 }
 ```
 
-（範例省略第 2、4 題）
+（範例省略第 2、4 題。小題標記不在回應中，只存在伺服器的 `ImportStore`，見 [import-store.md](import-store.md)。）
 
 **200 ImportError**
 
@@ -78,7 +78,7 @@
 }
 ```
 
-其他 `code`（`NO_QUESTIONS`、`INVALID_NUMBERING`、`TOO_MANY_QUESTIONS`、`NO_BLANK`、`NO_ACCESS`、`NO_WORKSHEET`）格式相同，`foundHeaders`、`acceptedHeaders` 為 `[]`。各 code 的 `reason` 範例：
+其他 `code`（`NO_QUESTIONS`、`INVALID_NUMBERING`、`TOO_MANY_QUESTIONS`、`NO_BLANK`、`NO_ACCESS`、`NO_WORKSHEET`）格式相同，`foundHeaders`、`acceptedHeaders` 為 `[]`，前端一樣顯示在 001 的找不到表頭頁（T-ImportError）。各 code 的 `reason` 範例：
 
 | `code` | `reason` 範例 | `fixSteps` 範例 |
 | --- | --- | --- |

diff --git a/specs/003-guided-notes-import/plan.md b/specs/003-guided-notes-import/plan.md
@@ -70,7 +70,7 @@
 | QuestionScanner、ScannedQuestion | `server/src/guided-notes/QuestionScanner.ts` | component、class、sequence |
 | importErrors | `server/src/guided-notes/importErrors.ts` | component、class |
 | ImportStore | `server/src/guided-notes/ImportStore.ts`；契約見 [contracts/import-store.md](contracts/import-store.md) | component、class、sequence |
-| Entities（含 `SubQuestion.marker`） | `shared/src/entities.ts`（001 擁有，`marker` 由 001 加入） | class |
+| Entities | `shared/src/entities.ts`（001 擁有，003 不修改；小題標記不在實體中） | class |
 
 ## 替換模擬實作
 
@@ -102,7 +102,7 @@ specs/003-guided-notes-import/
 ### Source Code (repository root)
 
 ```text
-shared/src/entities.ts                       # 001 擁有；SubQuestion.marker 由 001 加入
+shared/src/entities.ts                       # 001 擁有；003 不修改
 server/
 ├── package.json                             # 003 新增 @googleapis/sheets、@googleapis/drive
 ├── src/
